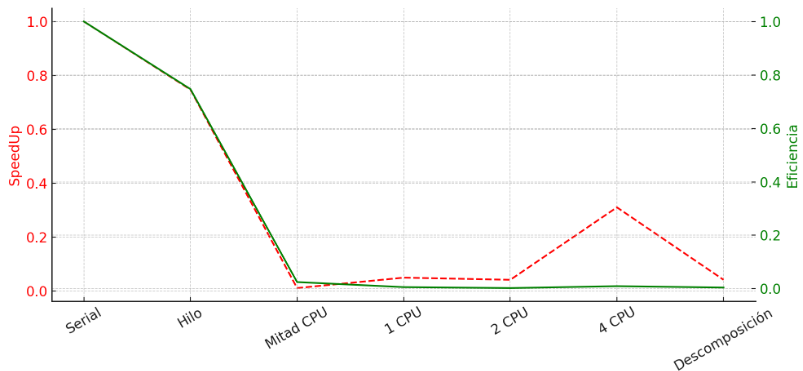
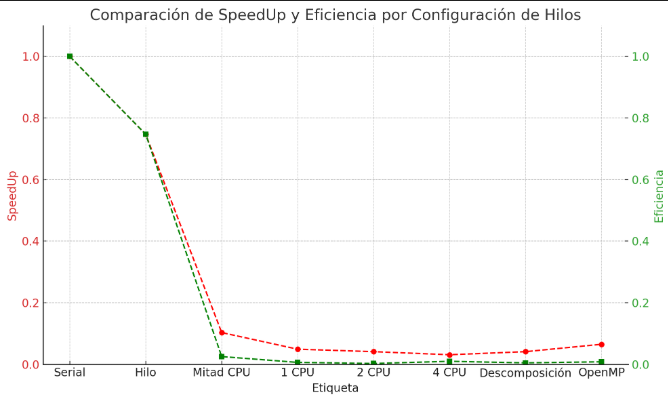
omp_mpi: final report

diff --git a/homeworks/omp_mpi/src/plate.h b/homeworks/omp_mpi/src/plate.h
@@ -61,7 +61,6 @@ int calculate_finish(int rank, int end, int workers, int begin);
  * @param data_job Estructura que contiene la información de la placa y los parámetros de simulación.
  * @param dat Array de datos que se utilizarán en la simulación.
  * @param cont_array Puntero a un entero que cuenta el número de datos procesados.
- * @param job Nombre del trabajo que se utilizará para generar el archivo de salida.
  */
 void make_matrix(data_job_t* data_job, data_array_t *dat,
     int *cont_array);
@@ -90,7 +89,6 @@ void heat_team(data_job_t* data_job);
  * placa.
  *
  * @param data_job Estructura que contiene la información de la placa y los parámetros de simulación.
- * @param thread_count Cantidad de hilos que se van a utilizar en la simulación.
  */
 void make_heat(data_job_t* data_job);
 
@@ -138,6 +136,8 @@ void free_matrix(struct data_job *plate_data);
  * @param job Nombre base del archivo de trabajo
  * @param job_size Tamano del nombre base
  * @param thread_count Cantidad de hilos para la ejecucion
+ * @param argc Puntero al contador de argumentos
+ * @param argv Puntero al array de argumentos
  * @return int Retorno para ver si hay algun error de entrada
  */
 int analyze_arguments(char* filename, size_t filename_size, char* job,

diff --git a/homeworks/omp_mpi/src/file.h b/homeworks/omp_mpi/src/file.h
@@ -98,12 +98,17 @@ void plate_charge_heat(int position, struct data_array *dat,
  *
  * @param dat Array de estructuras `data_array` desde donde se cargarán los datos.
  * @param plate_data Esctructura con los datos del job y el plate.
- * @param job Archivo al cual se le va a escribir la nueva informacion.
  * @param position Int para saber cual es la informacion del job correspondiente.
  */
 void jobs_out_file(struct data_array *dat, struct data_job *plate_data,
     int position);
 
+/**
+ * @brief Escribe el archivo final con los resultados de la simulacion.
+ * 
+ * @param filename Nombre del archivo que contiene los resultados de la simulación.
+ * @param job Nombre para el archivo de salida.
+ */
 void jobs_final_file(const char *filename, char job[]);
 
 /**

diff --git a/homeworks/omp_mpi/src/file.c b/homeworks/omp_mpi/src/file.c
@@ -137,10 +137,6 @@ void jobs_out_file(struct data_array *dat,
 
 void jobs_final_file(const char *filename, char job[]) {
   FILE *file = fopen(filename, "r");
-  if (file == NULL) {
-    fprintf(stderr, "No se pudo abrir el archivo '%s' para lectura\n", filename);
-    return;
-  }
   data_job_t* array_job_print = calloc(30, sizeof(struct data_job));
   char job_filename[104];
 
